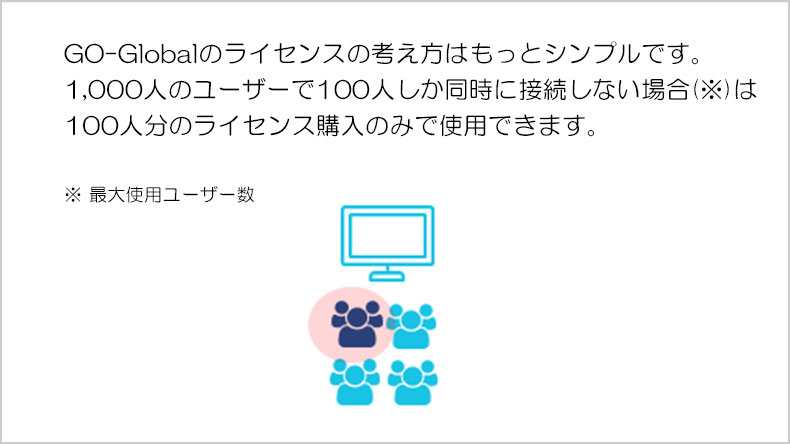
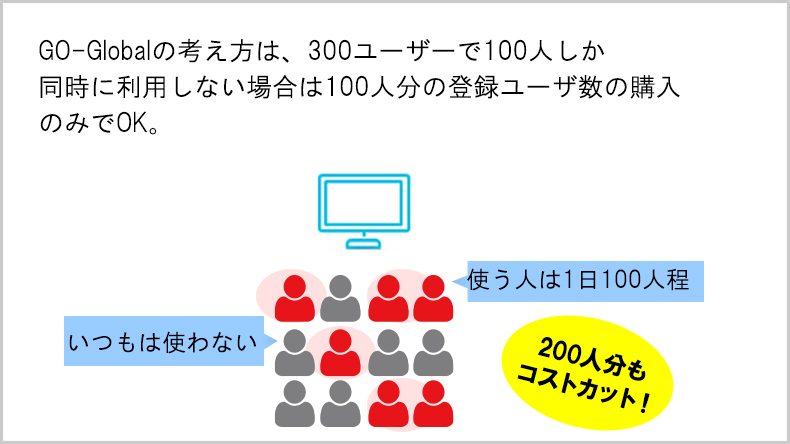
'（03-29）'

diff --git a/public/contact/index.html b/public/contact/index.html
@@ -358,7 +358,7 @@
 <p>他社では、ユーザー数、端末数、アカウント数など、ライセンスの考え方が複雑です。また、ライセンス単位も、50や、100単位ずつなど、販売形式は様々です。</p>
 
 
-<p>GO-Globalは、「常時接続のユーザー」数という考え方で販売しております。1人1アカウントではないので、使いまわしてもOK。5ユーザー分から増減できるので会社の運用体制に合わせてフレキシブルに変更できます。<p>
+<p>GO-Globalは、「同時接続のユーザー」数という考え方で販売しております。1人1アカウントではないので、使いまわしてもOK。5ユーザー分から増減できるので会社の運用体制に合わせてフレキシブルに変更できます。<p>
 
 
 
@@ -440,7 +440,7 @@
 
 <h2>特徴4：デバイスを選ばない</h2>
 
-<p>iPadで、使てエクセルを使いたい。外出先からモバイルで、会社独自の専用のアプリケーションを利用したい。といった場合GO-Globalならデバイスを選ばず使用することが可能です。サーバーに利用したいデーターやアプリをインストールすれば簡単に使用可能です。iPad/iPhone/Androidからは専用アプリでログインし、スムーズに操作ができます。</p>
+<p>iPadで、エクセルを使いたい。外出先からモバイルで、会社独自の専用のアプリケーションを利用したい。といった場合GO-Globalならデバイスを選ばず使用することが可能です。サーバーに利用したいデーターやアプリをインストールすれば簡単に使用可能です。iPad/iPhone/Androidからは専用アプリでログインし、スムーズに操作ができます。</p>
 
 
 <a href="../img/function01.jpg" target="_blank"><img class="img2" src="../img/function01.jpg" width="1145" alt="" border="0"></a>
@@ -451,17 +451,13 @@
     <p><b>今ある端末を活用できるので</b>
 
 <br>
-<font color="#c71585"><i class="fas fa-check-square"></i></font>コストが抑えられる<br><br>
-
-
-    <p><b>性能テスト、負荷テスト、ユーザビリティーテスト、など様々な試験をする必要がない</b><br>
+<font color="#c71585"><i class="fas fa-check-square"></i></font>コストが抑えられる<br>
 
 
 
 
 <font color="#c71585"><i class="fas fa-check-square"></i></font>管理が楽になる
 </p>
-<font color="#c71585"><i class="fas fa-check-square"></i></font>コストが抑えられる<br>
 
 </div>
 

diff --git a/layouts/partials/contact.html b/layouts/partials/contact.html
@@ -92,7 +92,7 @@
 <p>他社では、ユーザー数、端末数、アカウント数など、ライセンスの考え方が複雑です。また、ライセンス単位も、50や、100単位ずつなど、販売形式は様々です。</p>
 
 
-<p>GO-Globalは、「常時接続のユーザー」数という考え方で販売しております。1人1アカウントではないので、使いまわしてもOK。5ユーザー分から増減できるので会社の運用体制に合わせてフレキシブルに変更できます。<p>
+<p>GO-Globalは、「同時接続のユーザー」数という考え方で販売しております。1人1アカウントではないので、使いまわしてもOK。5ユーザー分から増減できるので会社の運用体制に合わせてフレキシブルに変更できます。<p>
 
 
 
@@ -174,7 +174,7 @@
 
 <h2>特徴4：デバイスを選ばない</h2>
 
-<p>iPadで、使てエクセルを使いたい。外出先からモバイルで、会社独自の専用のアプリケーションを利用したい。といった場合GO-Globalならデバイスを選ばず使用することが可能です。サーバーに利用したいデーターやアプリをインストールすれば簡単に使用可能です。iPad/iPhone/Androidからは専用アプリでログインし、スムーズに操作ができます。</p>
+<p>iPadで、エクセルを使いたい。外出先からモバイルで、会社独自の専用のアプリケーションを利用したい。といった場合GO-Globalならデバイスを選ばず使用することが可能です。サーバーに利用したいデーターやアプリをインストールすれば簡単に使用可能です。iPad/iPhone/Androidからは専用アプリでログインし、スムーズに操作ができます。</p>
 
 
 <a href="../img/function01.jpg" target="_blank"><img class="img2" src="../img/function01.jpg" width="1145" alt="" border="0"></a>
@@ -185,17 +185,13 @@
     <p><b>今ある端末を活用できるので</b>
 
 <br>
-<font color="#c71585"><i class="fas fa-check-square"></i></font>コストが抑えられる<br><br>
-
-
-    <p><b>性能テスト、負荷テスト、ユーザビリティーテスト、など様々な試験をする必要がない</b><br>
+<font color="#c71585"><i class="fas fa-check-square"></i></font>コストが抑えられる<br>
 
 
 
 
 <font color="#c71585"><i class="fas fa-check-square"></i></font>管理が楽になる
 </p>
-<font color="#c71585"><i class="fas fa-check-square"></i></font>コストが抑えられる<br>
 
 </div>
 
